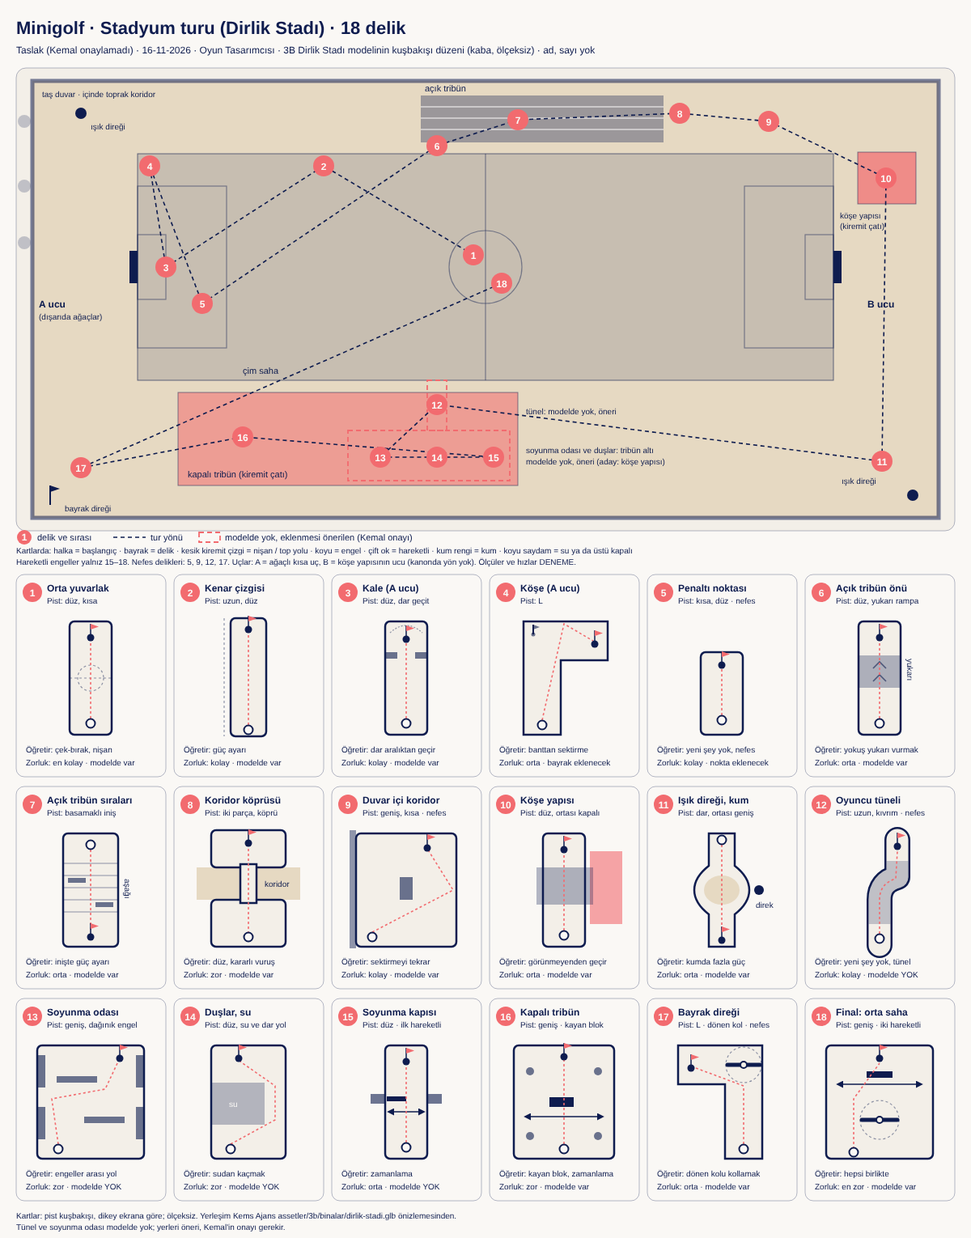
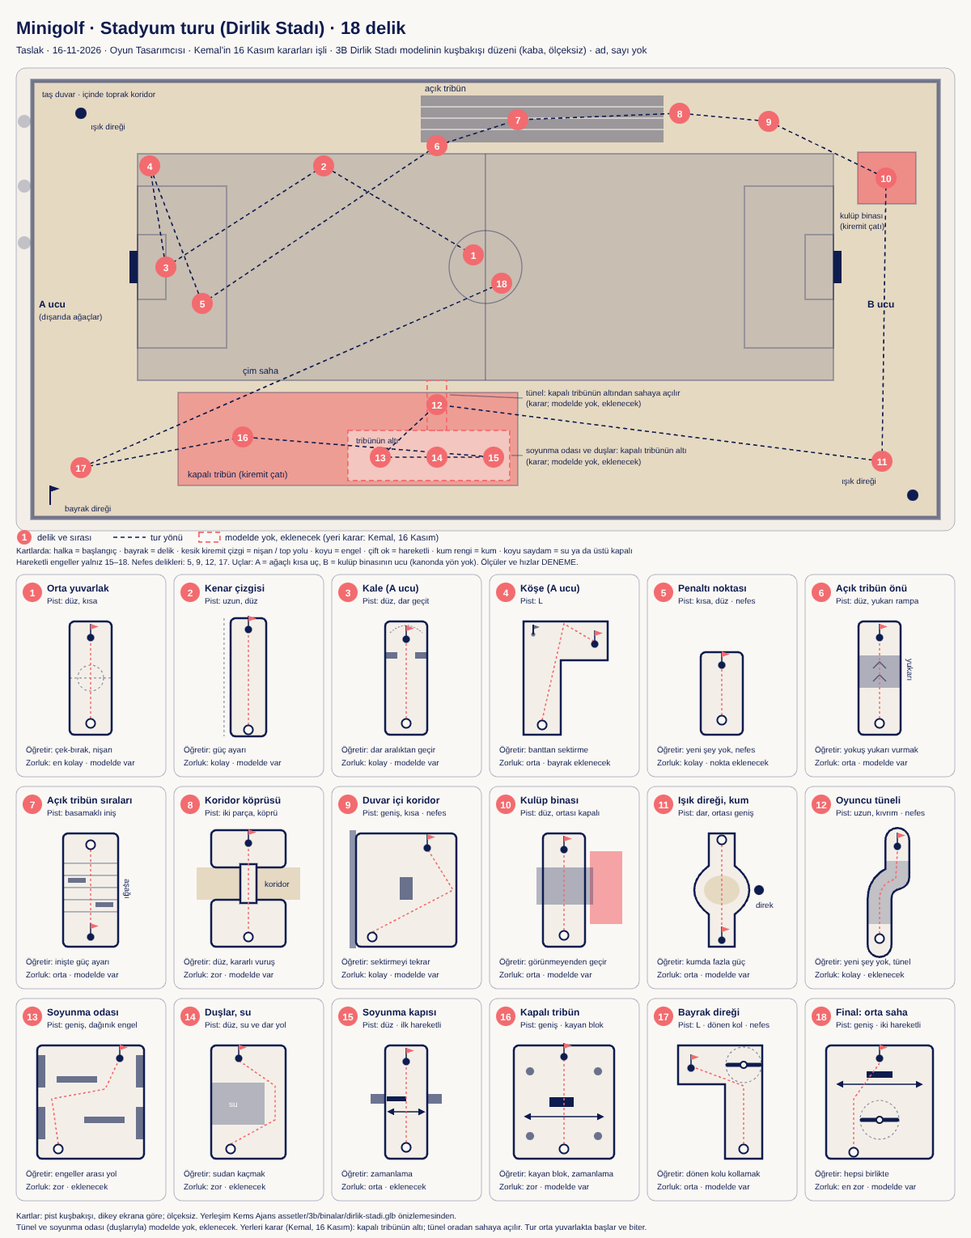
Kemal'in 16 Kasım cevapları: kulüp binası, tribün altı tünel, Ocak 2027
- Tasarım belgesi: 8 cevap kararlar geçmişine ve ilgili bölümlere işlendi, 7. bölümde kapandı
- Delik planı: "köşe yapısı" yerine "kulüp binası"; tünel ve soyunma odası kapalı tribünün altı
- Maketler: 10. delik "Kulüp binası", ayın turu "Ocak 2027"; üç maket görüntüsü ve plan önizlemesi yeniden çekildi
- Lisanslar: 3B Dirlik Stadı modeli Kemal'in onayıyla oyunda kullanılır
- Yol haritası güncellendi

Claude-Session: https://claude.ai/code/session_01CqmBomUoj7kxT4HXbmEom1

diff --git a/docs/tasarim-belgesi.md b/docs/tasarim-belgesi.md
@@ -17,18 +17,18 @@ fiyat, reklam sıklığı gibi sayılar yazılmaz ("veri yok"). Denemek için ko
 diye işaretlenir; bulunduğu yer web denemesidir, onaylayan Kemal'dir.
 
 **Kaynaklar:** Kems Ajans `oneriler/minigolf-fikir-belgesi-15-11-2026.md` (Kemal'in 15 ve 16 Kasım
-cevapları işli) ve Kemal'in 16 Kasım Stadyum soru turu cevapları. Düzada bilgisi yalnız KKM'deki
+cevapları işli), Kemal'in 16 Kasım Stadyum soru turu cevapları ve plan üzerine verdiği 8 cevap (16 Kasım, kesin). Düzada bilgisi yalnız KKM'deki
 `docs/03-duzada-kunyesi.md`'den. Stat kompleksinin yerleşimi Kemal'in beğendiği 3B Dirlik Stadı
 modelinden (Kems Ajans `assetler/3b/binalar/dirlik-stadi.glb`, önizleme `dirlik-stadi-onizleme.jpg`).
 
 **İlham:**
 - 3B modelin önizlemesinden: bütün yerleşim alındı (saha, iki tribün, taş duvar, duvar içi toprak
-  yol, ışık direkleri, köşe yapısı, bayrak direği). Deliklerin yeri buna göre.
+  yol, ışık direkleri, kulüp binası, bayrak direği). Deliklerin yeri buna göre.
 - Vikideki suluboya çizimden (KKM `public/viki/cizim-dirlik-stadi.jpg`): statın zeytinlik içinde,
   yukarıda durduğu ve denizin yalnız ufukta göründüğü hava alındı. Çizimde iki tribün aynı kenarda;
   plan 3B modele göre yapıldı, çizime göre değil.
 - `assetler/ilham/stadyum/stadyum-01.jpg`'den: sahayı saran toprak yol ve sahanın kenarındaki alçak
-  taş yapı fikri alındı (tribün altına soyunma odası önerisi buradan). Görseldeki plaj ve birahane bu
+  taş yapı fikri alındı (tribün altındaki soyunma odası fikri buradan; yeri Kemal'in 16 Kasım kararı). Görseldeki plaj ve birahane bu
   turda yok.
 - Pinterest ve Behance'e bakılmadı. Bu belge oynanış ve yerleşim belgesi; görsel dil İllüstratör'ün işi (5. bölüm).
 
@@ -36,6 +36,18 @@ modelinden (Kems Ajans `assetler/3b/binalar/dirlik-stadi.glb`, önizleme `dirlik
 
 En yeni üstte.
 
+- **16 Kasım (Kemal'in plan cevapları, kesin):**
+  1. Tünel ve soyunma odası (duşlarıyla) kapalı tribünün altında; tünel oradan sahaya açılır.
+     Modelde yok, eklenecek; yeri karar (4.2, 4.5).
+  2. Köşedeki kiremit çatılı yapı **kulüp binası**dır (Dirlik Spor Kulübü'nün binası; ad yok).
+     10. delik kulüp binasının önünde ve saçağının altında (4.2, 4.5).
+  3. 3B Dirlik Stadı modeli oyunda kullanılır (Kems Ajans yaptı; `docs/lisanslar.md`).
+  4. Tribün sıraları, köprü, duşlar engel olarak kullanılır (3.2).
+  5. Tur orta yuvarlakta başlar ve orada biter (4.3).
+  6. Geri alınan vuruşun sayıdan düşüp düşmeyeceği denemeden sonra; o zamana kadar DENEME (2. bölüm).
+  7. Oyuncu görünmez; ekranda yalnız top ve pist (1.3).
+  8. Stadyum turu şimdilik **Ocak 2027**'nin ayın turu. İleride Ocak'a başka bir şey alınırsa Mart'a
+     kayabilir (9. bölüm).
 - **16 Kasım (Kemal: "ekranları önden görmek istiyorum"):** oyun yapılmadan önce ekranların maketi
   hazırlanır. Maketler öneridir, oynanış değildir (11. bölüm).
 - **16 Kasım (Stadyum soru turu, kesin):** Turlar lokasyona göre, her tur 18 delik. İlk tur yalnız
@@ -72,8 +84,8 @@ bölümlerinde adım adım ilerler, sanki oralara gerçek minigolf parkurları k
 
 ### 1.3 Oyuncu
 
-**Öneri:** oyuncu görünmez; ekranda yalnız top, pist ve yer var. Oyuncunun bir karakteri, adı, yüzü
-yok. İleride karakter olup olmayacağı [Kemal] (7. bölüm).
+**Karar (Kemal, 16 Kasım)**: oyuncu görünmez; ekranda yalnız top ve pist (yer, pistin çevresinde dekor). Oyuncunun bir
+karakteri, adı, yüzü yok.
 
 ## 2. Oynanış: kamera ve kontrol
 
@@ -87,7 +99,8 @@ yok. İleride karakter olup olmayacağı [Kemal] (7. bölüm).
 - **Çek-bırak vuruş:** oyuncu topa dokunur, başparmağını geri çeker (ne kadar çekerse o kadar
   güçlü), bırakınca top atılır. Çekerken topun önünde ince bir nişan çizgisi çıkar. Güç-çekme oranı DENEME.
 - Nişan çizgisi yalnız yönü gösterir; sekmeyi gösterip göstermeyeceği DENEME (yardımın boyu Kemal'in).
-- **Geri al:** son vuruştan önceki yere döner; vuruş sayısından düşer mi düşmez mi [Kemal] (7. bölüm).
+- **Geri al:** son vuruştan önceki yere döner. Vuruş sayısından düşüp düşmeyeceği: DENEME; **Karar (Kemal, 16 Kasım)**,
+  karar denemeden sonra.
 - **Kaldığı yerden devam:** oyun kapanınca tur ve delik hatırlanır; açılınca aynı delikte, aynı vuruş sayısıyla.
 - **Kamera:** sabit açı; iki parmakla döndürme ve yakınlaştırma (tek elle oynamak gerekmez, isteğe bağlı).
 - **Top dışarı kaçarsa** (pistten, köprüden, suya): vuruştan önceki yere döner, o vuruş sayılır, ek ceza yok.
@@ -102,8 +115,9 @@ yok. İleride karakter olup olmayacağı [Kemal] (7. bölüm).
 **Karar (Kemal, 16 Kasım):**
 - Turlar mahalleye göre değil **lokasyona** göre. Her lokasyon bir tur, **her tur 18 delik**. Aynı
   mahallede başka bir lokasyon ayrı bir 18 delikli tur olabilir.
-- **İlk tur yalnız stat kompleksi** (Dirlik Stadı). Birahane, plaj, zeytinlik, sokak, kulüp binası
-  bu turda yok.
+- **İlk tur yalnız stat kompleksi** (Dirlik Stadı). Birahane, plaj, zeytinlik, sokak bu turda yok.
+  **Karar (Kemal, 16 Kasım)**: statın köşesindeki kiremit çatılı yapı kulüp binasıdır; tur yalnız önünden ve saçağının
+  altından geçer (10. delik), içine girmez.
 - Pist gerçek bir minigolf pistidir; yerin eşyası pistin çevresinde ve engel olarak durur.
 - Künyede ayrıca yazmayan ama **her statta olan genel eşya ve bölümler** kullanılabilir (kale, köşe
   bayrağı, tünel, soyunma odası, tribün sıraları gibi). Ad yok.
@@ -126,6 +140,9 @@ yok. İleride karakter olup olmayacağı [Kemal] (7. bölüm).
 
 **Karar (Kemal, 16 Kasım):** engellerin hepsi var: yerin eşyaları; klasik engeller (tünel, rampa,
 köprü); su ve kum tuzakları; hareketli engeller. **Hareketli engeller en son deliklerde.**
+
+**Karar (Kemal, 16 Kasım)**: tribün sıraları, köprü ve duşlar engel olarak kullanılır; statın genel eşyası yalnız
+çevrede durmaz, engel de olur.
 
 **Öneri:**
 - **Yerin eşyası önce gelir.** Bir delikte engel gerekiyorsa önce o yerde zaten olan şeye bakılır
@@ -183,33 +200,34 @@ parçalarına oturur. Modelin önizlemesinde görülenler:
 - **Taş duvar:** bütün kompleksi saran alçak duvar.
 - **Duvar içi toprak yol:** duvarla saha arasında, sahayı saran koridor.
 - **Işık direkleri:** önizlemede iki çapraz köşede görünüyor (öbür iki köşe önizlemede yok ya da görünmüyor).
-- **Köşe yapısı:** sahanın bir kısa ucunda, açık tribün tarafına yakın, kiremit çatılı küçük yapı.
+- **Kulüp binası:** sahanın bir kısa ucunda, açık tribün tarafına yakın, kiremit çatılı küçük yapı.
+  **Karar (Kemal, 16 Kasım)**: Dirlik Spor Kulübü'nün binası; ad yok.
 - **Bayrak direği:** kompleksin bir köşesinde, duvarın dibinde.
 - **Ağaçlar:** duvarın dışında, bir kısa uçta (dekor; pist yok).
 
 Bu belgede uçlar şöyle anılır: **A ucu** = duvar dışında ağaçların olduğu kısa uç; **B ucu** = köşe
-yapısının olduğu kısa uç. Kapalı tribün A ucuna yakın durur; açık tribün ortaya ve B ucuna yakın.
+binasının olduğu kısa uç. Kapalı tribün A ucuna yakın durur; açık tribün ortaya ve B ucuna yakın.
 Kanonda yön (kuzey, güney) yok; ad yok.
 
-**Modelde olmayanlar (eklenmesi gerekir, [Kemal] onayı):**
-- **Oyuncu tüneli:** öneri, kapalı tribünün altından sahaya açılır (ağzı kapalı tribünün B ucuna yakın
-  ucunda, saha kenarında).
-- **Soyunma odası (duşlarıyla):** öneri, kapalı tribünün altındaki kapalı hacmin içinde; tünel buraya
-  bağlanır. Aday: köşe yapısı soyunma odası olabilir (7. bölüm, soru). O zaman tünel köşe yapısından
-  sahaya gider.
+**Modelde olmayanlar (eklenecek):**
+- **Soyunma odası (duşlarıyla):** **Karar (Kemal, 16 Kasım)**: kapalı tribünün altındaki kapalı hacmin içinde.
+- **Oyuncu tüneli:** **Karar (Kemal, 16 Kasım)**: soyunma odasından, kapalı tribünün altından sahaya açılır. Ağzının
+  tam yeri öneri: kapalı tribünün ortasına yakın, saha kenarında (şemadaki gibi).
 - **Saha eşyası:** köşe bayrakları ve penaltı noktası önizlemede seçilmiyor; her sahada olan eşya
   olarak eklenir.
-- Modelin kaynağı ve lisansı `docs/lisanslar.md`'ye yazılmalı: [Kemal] (7. bölüm).
+- Model: **Karar (Kemal, 16 Kasım)**: oyunda kullanılır; kaynağı `docs/lisanslar.md`'de (Kems Ajans yaptı).
 
 ### 4.3 Turun akışı
 
-**Öneri:** tur orta yuvarlakta başlar, A ucunu dolaşır, açık tribüne çıkar, duvar içi koridordan B
+**Karar (Kemal, 16 Kasım)**: tur orta yuvarlakta başlar ve orada biter.
+
+**Öneri** (aradaki yol): tur orta yuvarlaktan A ucunu dolaşır, açık tribüne çıkar, duvar içi koridordan B
 ucuna geçer, kapalı tribünün altına (tünel, soyunma odası) iner, kapalı tribünün sıralarından ve A
 ucundaki bayrak direğinden geçip orta yuvarlakta biter.
 
 - Saha, A ucu: 1–5
 - Açık tribün ve koridor: 6–9
-- B ucu (köşe yapısı, ışık direği): 10–11
+- B ucu (kulüp binası, ışık direği): 10–11
 - Kapalı tribünün altı (tünel, soyunma odası): 12–15
 - Kapalı tribün, A ucu köşesi, final: 16–18
 
@@ -314,15 +332,15 @@ zorluk · öğretir · deneme notu. Hepsi **Öneri**.
 - Öğretir: yeni şey yok; sektirmenin rahat tekrarı.
 - Deneme notu: duvarın arkasında ufuk ve zeytinlik görünüyor mu, ekranı kalabalık yapıyor mu.
 
-**10 · Köşe yapısı**
-- Yer: B ucundaki kiremit çatılı köşe yapısı (modelde var).
-- Standın yerleşimi: pist yapının önünden geçer; bir bölümü saçağın altında.
+**10 · Kulüp binası**
+- Yer: B ucundaki kiremit çatılı kulüp binası (modelde var). **Karar (Kemal, 16 Kasım)**: delik binanın önünde ve
+  saçağının altında.
+- Standın yerleşimi: pist binanın önünden geçer; bir bölümü saçağın altında.
 - Pist: düz, ortası üstü kapalı.
-- Engeller: saçak (pistin bir bölümü üstü kapalı, top kısa bir an görünmez); yapının duvarı bant.
+- Engeller: saçak (pistin bir bölümü üstü kapalı, top kısa bir an görünmez); binanın duvarı bant.
 - Zorluk: orta.
 - Öğretir: görünmeyen bölümden geçirmek.
-- Deneme notu: kapalı bölümde top saydam mı görünsün, hiç mi görünmesin: DENEME. Köşe yapısı soyunma
-  odası olursa (7. bölüm) bu delik yapının önünde kalır, değişmez.
+- Deneme notu: kapalı bölümde top saydam mı görünsün, hiç mi görünmesin: DENEME.
 
 **11 · Işık direği, kum**
 - Yer: B ucunda, kapalı tribün tarafındaki köşe; ışık direğinin dibi, toprak koridor (modelde var).
@@ -334,7 +352,7 @@ zorluk · öğretir · deneme notu. Hepsi **Öneri**.
 - Deneme notu: kum ekranda ayırt ediliyor mu; kumdan çıkış adil mi. Yavaşlatma: DENEME.
 
 **12 · Oyuncu tüneli (nefes)**
-- Yer: oyuncu tüneli (**modelde yok, eklenecek**; öneri: kapalı tribünün altından sahaya).
+- Yer: oyuncu tüneli (**modelde yok, eklenecek**). **Karar (Kemal, 16 Kasım)**: kapalı tribünün altından sahaya açılır.
 - Standın yerleşimi: pist tünelin içinde, saha kenarından tribün altına.
 - Pist: uzun, tek hafif kıvrım; tünel duvarları bant.
 - Engeller: tünelin kendisi (klasik).
@@ -343,7 +361,7 @@ zorluk · öğretir · deneme notu. Hepsi **Öneri**.
 - Deneme notu: tünel içi okunur mu (ışık); tavan pisti kapatıyorsa saydam olsun mu: DENEME.
 
 **13 · Soyunma odası**
-- Yer: soyunma odası (**modelde yok, eklenecek**; öneri: kapalı tribünün altı. Aday: köşe yapısı).
+- Yer: soyunma odası (**modelde yok, eklenecek**). **Karar (Kemal, 16 Kasım)**: kapalı tribünün altı.
 - Standın yerleşimi: pist odanın zemininde; duvar boyunca dolaplar, ortada banklar.
 - Pist: geniş, dağınık engelli.
 - Engeller: banklar (ortada), dolaplar (kenarda, bant gibi).
@@ -352,7 +370,7 @@ zorluk · öğretir · deneme notu. Hepsi **Öneri**.
 - Deneme notu: bank ayakları topu takmamalı; delik bankın arkasında görünmez olmamalı.
 
 **14 · Duşlar, su**
-- Yer: soyunma odasının duş bölümü (**modelde yok, eklenecek**).
+- Yer: soyunma odasının duş bölümü, kapalı tribünün altı (**modelde yok, eklenecek**).
 - Standın yerleşimi: pist duş bölümünün zemininde.
 - Pist: düz; ortasında su birikintisi, bir yanında dar kuru yol.
 - Engeller: su tuzağı (klasik); suya düşen top dışarı kaçmış sayılır (DENEME).
@@ -408,16 +426,17 @@ zorluk · öğretir · deneme notu. Hepsi **Öneri**.
   13, 14, 15, 16, 17.
 - Her delikte aynı üç soru: tek ekranda mı, tek elle mi, yeni şey anlaşılıyor mu.
 - "Kaldığı yerden devam" 5. delikten sonra denenir.
-- 12–15 (tünel, soyunma odası) için önce yerin modele eklenmesi gerekir; Kemal yerini onaylamadan bu
-  deliklere geçilmez. O sırada 16–18 öne alınmaz (hareketliler en son).
+- 12–15 (tünel, soyunma odası) için önce bu bölümlerin modele eklenmesi gerekir (yeri karar: kapalı
+  tribünün altı, Kemal 16 Kasım); eklenmeden bu deliklere geçilmez. O sırada 16–18 öne alınmaz (hareketliler en son).
 - 18 delik bitince bir kez baştan sona oynanır: dalga hissediliyor mu, tur süresi uygun mu (DENEME).
 - Vuruş sınırı ve "top dışarı kaçarsa" kuralı bu denemelerden sonra Kemal'in kararı.
 
 ### 4.7 Bu turda gerekecek parçalar
 
 **Öneri** (görsel üretimi değil, liste; ad ve marka yok):
-- Modelden: saha, iki tribün, taş duvar, toprak koridor, ışık direkleri, köşe yapısı, bayrak direği.
-- Eklenecek yerler: oyuncu tüneli, soyunma odası (dolaplar, banklar), duş bölümü, kapı.
+- Modelden: saha, iki tribün, taş duvar, toprak koridor, ışık direkleri, kulüp binası, bayrak direği.
+- Eklenecek yerler (kapalı tribünün altında): oyuncu tüneli, soyunma odası (dolaplar, banklar), duş
+  bölümü, kapı.
 - Eklenecek saha eşyası: köşe bayrakları, penaltı noktası, kale ağı (modelde kalelerin ağı seçilmiyor).
 - Pist parçaları: bantlı pist halısı, rampa, köprü, kum, su, kayan blok, dönen kol, delik ve bayrak, top.
 
@@ -454,7 +473,7 @@ zorluk · öğretir · deneme notu. Hepsi **Öneri**.
   bu öneriyle kuruldu (16 Kasım).
 - Fizik: hazır bir fizik kütüphanesi (ör. Rapier); Oyun Geliştiricisi ilk delik denemesinde seçer.
 - 3B Dirlik Stadı modeli (`dirlik-stadi.glb`) sahnenin temeli; pistler modelin üstüne ayrı parçalar
-  olarak konur. Modelin kaynağı ve lisansı yazılmadan oyuna girmez.
+  olarak konur. **Karar (Kemal, 16 Kasım)**: model oyunda kullanılır (`docs/lisanslar.md`).
 - Her delik ayrı bir veri dosyası (pist parçaları, engeller, başlangıç ve delik yeri); kod delik delik büyür.
 - Telefonda akıcılık önce: az çokgen, az ışık, ölçülü gölge.
 - Telefon uygulaması sonra; paketleme öbür oyunlardaki gibi Capacitor.
@@ -479,24 +498,23 @@ denemesinde reklam ve satın alma yok.
 
 Kemal'in kararını bekleyenler.
 
-- **Tünel ve soyunma odasının yeri:** modelde yok. Kapalı tribünün altı mı, köşe yapısı mı? (4.2)
-- **Köşe yapısı ne?** Soyunma odası mı, başka bir şey mi, adsız bırakılsın mı? (4.2)
-- **Modelin kaynağı ve lisansı:** `dirlik-stadi.glb` nereden, oyunda kullanılabilir mi? (`docs/lisanslar.md`)
+- **Geri al vuruşu sayıdan düşer mi?** DENEME; karar denemeden sonra (Kemal, 16 Kasım; 2. bölüm).
 - **Top dışarı kaçarsa:** öneri "vuruştan önceki yere döner, vuruş sayılır"; DENEME, karar denemeden sonra.
-- **Genel stat bölümleri engel olsun mu?** Künyede yazmayan ama her statta olan bölüm ve eşyalar
-  (kale, köşe bayrağı, tünel, soyunma odası, tribün sıraları) yalnız pistin çevresinde mi durur, engel
-  olarak da mı kullanılır? Öneri: ikisi de, yerin eşyası önce (3.2).
-- **Tur orta yuvarlakta başlayıp bitsin mi?** Öneri: evet, 1. ve 18. delik orta yuvarlakta (4.3).
-- **Geri al vuruşu sayıdan düşer mi?** (2. bölüm)
 - **Vuruş sınırı:** web denemesinden sonra.
 - **Nişan çizgisi sekmeyi göstersin mi?** (4. delik)
 - **Delik ölçüsü, tur süresi, hızlar, eğimler:** DENEME, denemeden sonra.
 - **Görsel dil:** İllüstratör'ün 2–3 denemesinden hangisi.
-- **Oyuncunun karakteri:** oyuncu görünmez mi kalsın?
 - **Sonraki turların sırası** ve Imperial uzun turunun zamanı; turların zorluk sırası.
-- **Ayın turu:** Stadyum turu hangi ayın turu?
+- **Öbür ayların turu:** Stadyum Ocak 2027'nin; öbür aylar [Kemal].
 - Oyunun yayın adı, tur adları: [Kemal].
 - ~~Stadyum turunun yerleri, engel türleri, zorluk, ortam~~ Cevaplandı (Kemal, 16 Kasım): 3. ve 4. bölüm.
+- ~~Tünel ve soyunma odasının yeri~~ Cevaplandı (Kemal, 16 Kasım): kapalı tribünün altı; tünel oradan sahaya (4.2).
+- ~~Köşe yapısı ne?~~ Cevaplandı (Kemal, 16 Kasım): kulüp binası, ad yok (4.2).
+- ~~Modelin kaynağı ve lisansı~~ Cevaplandı (Kemal, 16 Kasım): oyunda kullanılır (`docs/lisanslar.md`).
+- ~~Genel stat bölümleri engel olsun mu?~~ Cevaplandı (Kemal, 16 Kasım): evet; tribün sıraları, köprü, duşlar (3.2).
+- ~~Tur orta yuvarlakta başlayıp bitsin mi?~~ Cevaplandı (Kemal, 16 Kasım): evet (4.3).
+- ~~Oyuncunun karakteri~~ Cevaplandı (Kemal, 16 Kasım): oyuncu görünmez; yalnız top ve pist (1.3).
+- ~~Ayın turu~~ Cevaplandı (Kemal, 16 Kasım): Stadyum, Ocak 2027; ileride Mart'a kayabilir (9. bölüm).
 
 ## 8. Ödül: pul koleksiyonu
 
@@ -516,15 +534,17 @@ bitince gelir. Ay takvim ayına bağlıdır; **geçen ayın turu sonradan bitiri
 **Öneri:**
 - Tur 18 deliğiyle bitince sayılır; vuruş sayısının önemi yok (cezasız ruh).
 - Yarıda bırakılan tur ay bitse de kaldığı yerden sürer; bitince o ayın pulu gelir.
-- Hangi turun hangi ayın turu olduğu: [Kemal]. Turlar 18 delik olduğu için her ay yeni tur gerekmez;
-  bir tur birden çok ay kullanılabilir ([Kemal]).
+- **Karar (Kemal, 16 Kasım)**: Stadyum turu şimdilik **Ocak 2027**'nin ayın turu. Not: ileride Ocak'a başka bir şey
+  alınırsa Mart'a kayabilir.
+- Öbür ayların turu: [Kemal]. Turlar 18 delik olduğu için her ay yeni tur gerekmez; bir tur birden çok
+  ay kullanılabilir ([Kemal]).
 
 ## 10. Sıra (öneri)
 
 Her adım bir öncekinin onayıyla başlar; tarih yazılmaz.
 
 1. **Stadyum delik planı** (Oyun Tasarımcısı): bu belge ve şema. Kemal onaylar ya da düzeltir.
-2. **Tünel ve soyunma odasının yeri** (Kemal karar verir), modele eklenmesi (3B iş, sonra).
+2. **Tünel ve soyunma odası** modele eklenir (yeri karar: kapalı tribünün altı, Kemal 16 Kasım; 3B iş).
 3. **İlk delik denemesi** (Oyun Geliştiricisi): 1. delik, fizik, vuruş, nişan çizgisi, delik sonu. Ölçüler DENEME.
 4. **Görsel dil denemeleri** (İllüstratör, ayrı iş): 2–3 deneme; Kemal seçer.
 5. Delikler sırayla (4.6), her biri Kemal denedikten sonra; hareketliler en son.
@@ -536,7 +556,7 @@ Her adım bir öncekinin onayıyla başlar; tarih yazılmaz.
 çalışmaz, top atılmaz. Her ekranın köşesinde "MAKET · öneri" yazar. Vuruşlar, ilerleme ve pul sayısı
 boştur ("–"); ad yerine `[YER TUTUCU: …]` ya da `[Kemal]` durur. Ölçüler (pist, top, nişan çizgisi,
 güç halkası) DENEME. Renkler marka kitinden, yazı Poppins; 3B stat, Kems Ajans'ın Dirlik Stadı modeli
-(kaynağı ve lisansı Kemal'e soruldu, 7. bölüm).
+(oyunda kullanımı Kemal'in 16 Kasım onayıyla). Ayın turu kutusunda "Ocak 2027" yazar (Kemal, 16 Kasım).
 
 Uygulamada adresin sonuna `?maket=<ekran>` yazınca açılır (bilgisayarda ve telefonda); oyunun kendi
 ekranına karışmaz. Görüntüler iPhone 13 boyutunda çekildi.

diff --git a/docs/yol-haritasi.md b/docs/yol-haritasi.md
@@ -13,15 +13,18 @@
   yayın iş akışı. Bilgisayarda telefon boyutunda denendi; gerçek telefonda denenmedi.
 - 16 Kasım 2026 (öneri; `ajans/stadyum-plani`): kapsamlı tasarım belgesi, Stadyum turunun 18 delikli
   planı ve şeması (`docs/plan/`), altı ekran maketi (`?maket=…`; ana ekran, tur seçimi, delik, atış,
-  skor kartı, tur sonu; görüntüleri `docs/ekranlar/`). Maketler öneri, oynanış değil. 3B Dirlik Stadı
-  modeli maketlerde; kaynağı ve lisansı Kemal'e soruldu. Gerçek telefonda denenmedi.
+  skor kartı, tur sonu; görüntüleri `docs/ekranlar/`). Maketler öneri, oynanış değil. Gerçek telefonda
+  denenmedi.
+- 16 Kasım 2026 (aynı dal): Kemal'in 8 cevabı işlendi. Tünel ve soyunma odası kapalı tribünün altında;
+  köşedeki yapı kulüp binası (10. delik onun önünde); 3B Dirlik Stadı modeli oyunda kullanılır; tribün
+  sıraları, köprü, duşlar engel; tur orta yuvarlakta başlar ve biter; geri al DENEME; oyuncu görünmez;
+  Stadyum turu Ocak 2027'nin ayın turu (ileride Mart'a kayabilir).
 
 ## Sıradaki
 
-1. **Kemal'in kararları:** delik planı ve maketler onaylanır ya da düzeltilir; tasarım belgesinin 7.
-   bölümündeki sorular (tünel ve soyunma odasının yeri, köşe yapısı, 3B modelin lisansı, genel stat
-   bölümleri, turun başı ve sonu, geri al, oyuncu, ayın turu).
-2. **Tünel ve soyunma odası** modele eklenir (yerini Kemal seçtikten sonra; 3B iş).
+1. **Kemal'in onayı:** delik planı ve maketler onaylanır ya da düzeltilir (8 soru cevaplandı, 16 Kasım).
+2. **Tünel ve soyunma odası** (duşlarıyla) modele eklenir: kapalı tribünün altı, tünel oradan sahaya
+   (yeri karar, Kemal 16 Kasım; 3B iş).
 3. **İlk delik denemesi:** plandaki 1. delik (orta yuvarlak); fizik kütüphanesi seçilir, tek parmak
    vuruş ve nişan çizgisi, geri al, delik sonu. Ölçüler DENEME. Maketteki ekranlar onaylanınca oyuna
    taşınır.
@@ -31,10 +34,12 @@
 
 - Hareketli engeller (engeller içinde en son).
 - Görsel dil: İllüstratör 2–3 deneme.
-- Ayın turu ve pul (takvim ayı; geçen ayın turu sonradan bitirilebilir).
+- Ayın turu ve pul (takvim ayı; geçen ayın turu sonradan bitirilebilir). Stadyum turu Ocak 2027'nin
+  ayın turu; ileride Ocak'a başka bir şey alınırsa Mart'a kayabilir.
 - Imperial uzun turu.
 - Telefon uygulaması; reklam ve reklamsız paket yalnız orada.
 
 ## Bitenler
 
 - İskelet (16 Kasım, PR #1 birleşti).
+- Stadyum turu soruları: Kemal'in 8 cevabı (16 Kasım; tasarım belgesi, kararların geçmişi).

diff --git a/docs/lisanslar.md b/docs/lisanslar.md
@@ -7,10 +7,10 @@ kullanıma açık paketlerden.
 | Ne | Nerede | Kaynak | Lisans |
 |---|---|---|---|
 | Poppins yazı tipi (400 ve 600) | bütün ekranlar | `@fontsource/poppins` paketi (https://fontsource.org/fonts/poppins) | SIL Open Font License 1.1 |
-| 3B Dirlik Stadı modeli (`public/modeller/dirlik-stadi.glb`) | yalnız ekran maketleri (`?maket=…`) | **Geçici satır:** Kems Ajans yaptı (Blender; Kems Ajans `assetler/3b/binalar/dirlik-stadi.glb`). Kaynağı ve lisansı Kemal'e soruldu (tasarım belgesi 7. bölüm) | [Kemal] |
+| 3B Dirlik Stadı modeli (`public/modeller/dirlik-stadi.glb`) | ekran maketleri ve oyunun kendisi (Stadyum turunun temeli) | Kems Ajans yaptı (Blender), Kemal 16 Kasım'da kullanımını onayladı; kaynak Kems-Ajans `assetler/3b/binalar/dirlik-stadi.glb` | Kemal'in onayı (16 Kasım) |
 
 Saha, pist, top ve maketlerdeki simgeler kodla çiziliyor. Ses ve hazır görsel henüz yok. 3B stat modeli
-Kemal kaynağını ve lisansını onaylamadan oyunun kendisine (maket dışına) girmez.
+oyunda kullanılabilir (Kemal, 16 Kasım); tünel ve soyunma odası modelde yok, eklenecek.
 
 Yazılım kütüphaneleri (React, Three.js, React Three Fiber, Vite, TypeScript) MIT ve Apache 2.0
 lisanslıdır; oyunun içinde görünmezler.
